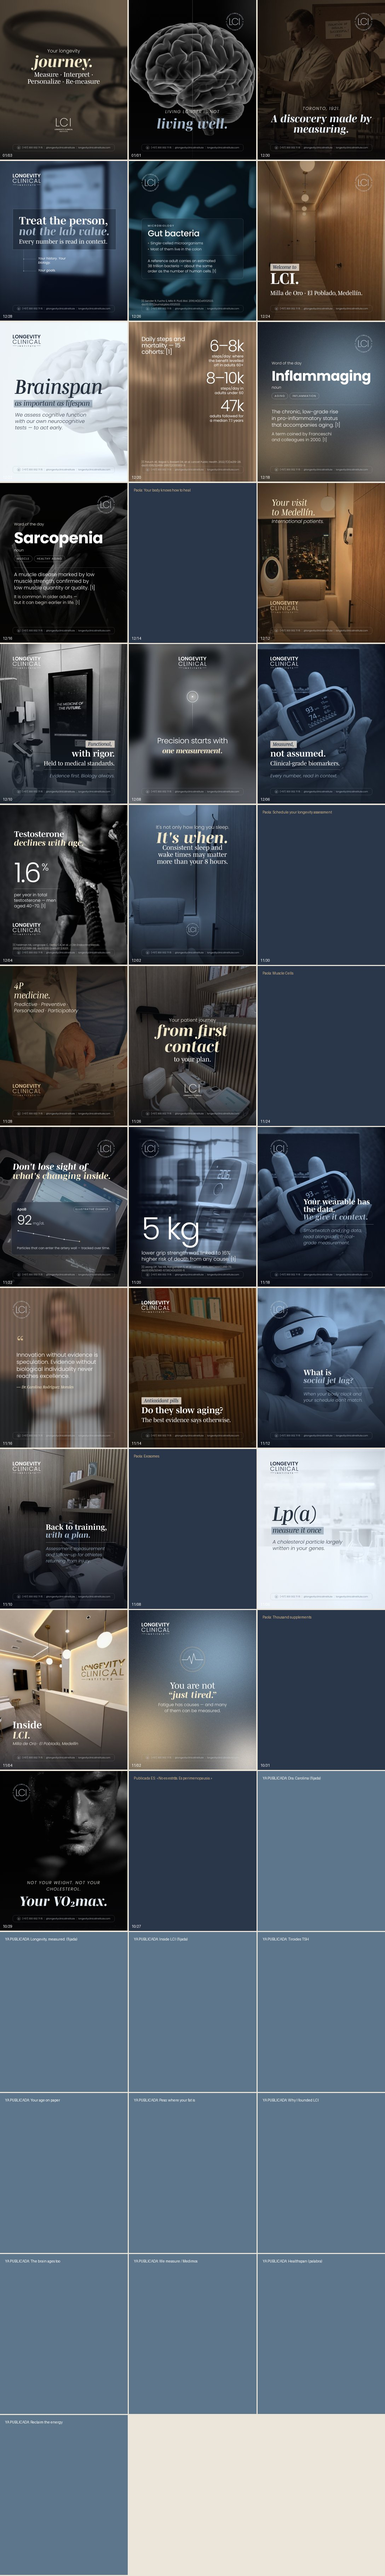
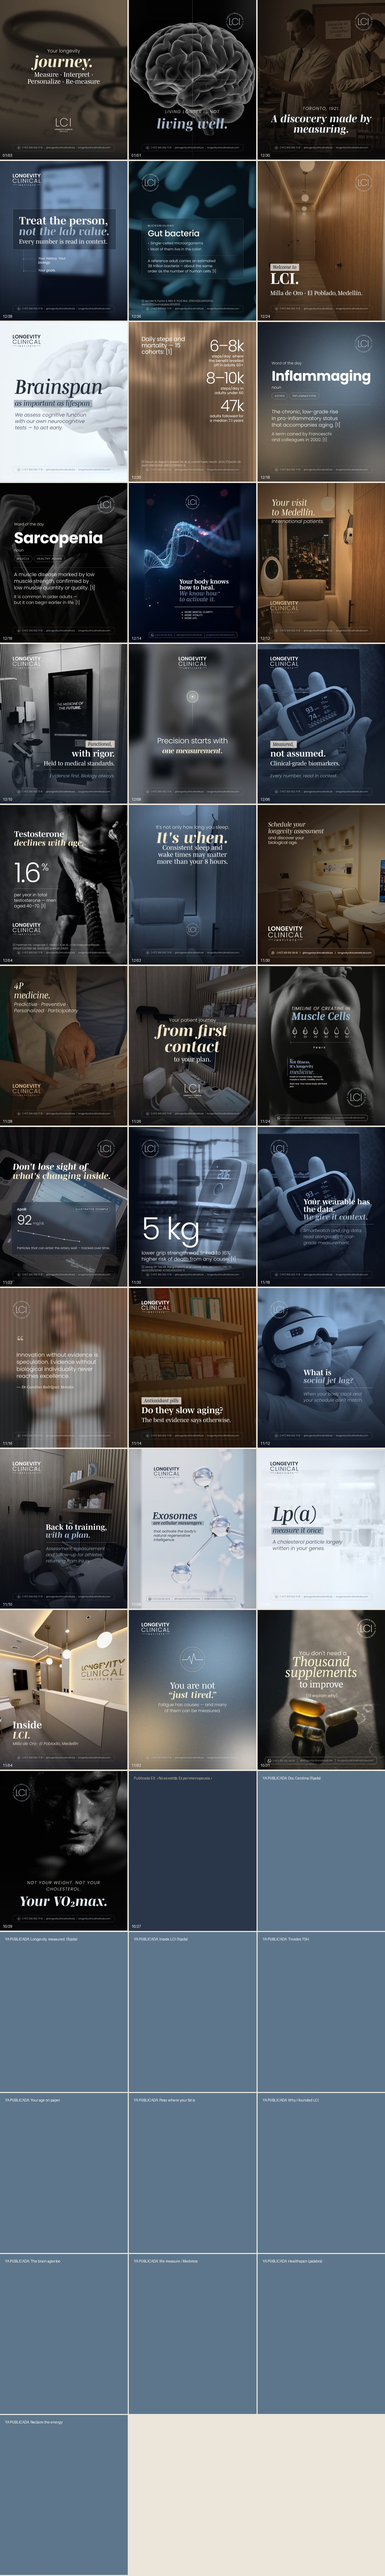
Feed LCI: incluye las 5 piezas de Paola del banco en EN
Claude-Session: https://claude.ai/code/session_01Hq27SugjwbHvNcXdDCPZTp

Changed region(s): [[0.3125, 0.5625, 1.0, 0.6875], [0.6562, 0.3125, 1.0, 0.4375], [0.3125, 0.1875, 0.6875, 0.25]]

diff --git a/feed-2026/build/package.py b/feed-2026/build/package.py
@@ -1,6 +1,6 @@
 import os,shutil,glob
 from PIL import Image,ImageDraw
-cal=[('10-27', None, 'Publicada ES: «No es estrés. Es perimenopausia.»'), ('10-29', 'E01-vo2max', 0), ('10-31', None, 'Paola: Thousand supplements'), ('11-02', 'P28-just-tired', 0), ('11-04', 'N04-inside-lci', 0), ('11-06', 'P24-lpa', 0), ('11-08', None, 'Paola: Exosomes'), ('11-10', 'NB-recuperacion', 0), ('11-12', 'P30-social-jetlag', 0), ('11-14', 'E02-antioxidants', 0), ('11-16', 'P31-quote', 0), ('11-18', 'NC-wearables', 0), ('11-20', 'P34-grip-strength', 0), ('11-22', 'P36-apob', 0), ('11-24', None, 'Paola: Muscle Cells'), ('11-26', 'N05-patient-journey', 0), ('11-28', 'P29-4p', 0), ('11-30', None, 'Paola: Schedule your longevity assessment'), ('12-02', 'E03-sleep-regularity', 0), ('12-04', 'P41-testosterone', 0), ('12-06', 'P27-measured', 0), ('12-08', 'P37-one-measurement', 0), ('12-10', 'N06-functional-rigor', 0), ('12-12', 'N07-visit-medellin', 0), ('12-14', None, 'Paola: Your body knows how to heal'), ('12-16', 'P33-word-sarcopenia', 0), ('12-18', 'P38-word-inflammaging', 0), ('12-20', 'P39-daily-steps', 0), ('12-22', 'N11-brainspan', 0), ('12-24', 'P40-inside-lci-2', 0), ('12-26', 'P35-microbiota', 0), ('12-28', 'N13-person-not-value', 0), ('12-30', 'P42-insulin-1921', 0), ('01-01', 'N09-healthspan', 0), ('01-03', 'P26-journey', 0)]
+cal=[('10-27', None, 'Publicada ES: «No es estrés. Es perimenopausia.»'), ('10-29', 'E01-vo2max', 0), ('10-31', 'PAOLA-thousand-supplements', 0), ('11-02', 'P28-just-tired', 0), ('11-04', 'N04-inside-lci', 0), ('11-06', 'P24-lpa', 0), ('11-08', 'PAOLA-exosomes', 0), ('11-10', 'NB-recuperacion', 0), ('11-12', 'P30-social-jetlag', 0), ('11-14', 'E02-antioxidants', 0), ('11-16', 'P31-quote', 0), ('11-18', 'NC-wearables', 0), ('11-20', 'P34-grip-strength', 0), ('11-22', 'P36-apob', 0), ('11-24', 'PAOLA-muscle-cells-timeline', 0), ('11-26', 'N05-patient-journey', 0), ('11-28', 'P29-4p', 0), ('11-30', 'PAOLA-schedule-assessment', 0), ('12-02', 'E03-sleep-regularity', 0), ('12-04', 'P41-testosterone', 0), ('12-06', 'P27-measured', 0), ('12-08', 'P37-one-measurement', 0), ('12-10', 'N06-functional-rigor', 0), ('12-12', 'N07-visit-medellin', 0), ('12-14', 'PAOLA-your-body-knows', 0), ('12-16', 'P33-word-sarcopenia', 0), ('12-18', 'P38-word-inflammaging', 0), ('12-20', 'P39-daily-steps', 0), ('12-22', 'N11-brainspan', 0), ('12-24', 'P40-inside-lci-2', 0), ('12-26', 'P35-microbiota', 0), ('12-28', 'N13-person-not-value', 0), ('12-30', 'P42-insulin-1921', 0), ('01-01', 'N09-healthspan', 0), ('01-03', 'P26-journey', 0)]
 live=['Dra. Carolina (fijada)', 'Longevity, measured. (fijada)', 'Inside LCI (fijada)', 'Tiroides TSH', 'Your age on paper', 'Peso: where your fat is', 'Why I founded LCI', 'The brain ages too', 'We measure / Medimos', 'Healthspan (palabra)', 'Reclaim the energy']
 PA=''
 def src(lang,slug):
@@ -14,6 +14,7 @@ for lang in ('en','es'):
     for i,(d,slug,note) in enumerate(cal,1):
         if slug:
             fs=src(lang,slug)
+            if not fs: covers.append(None); continue
             dst=f'{root}/{i:02d}_{d}_{slug}'; os.makedirs(dst)
             for j,f in enumerate(fs,1): shutil.copy(f,f'{dst}/{j:02d}.png')
             covers.append(Image.open(fs[0]).convert('RGB'))
@@ -29,7 +30,7 @@ for lang in ('en','es'):
             dr.rectangle([x,y,x+w,y+h],fill=(93,118,140)); dr.text((x+14,y+14),'YA PUBLICADA: '+live[-idx-1],fill=(255,255,255)); continue
         if c: G.paste(c.resize((w,h)),(x,y))
         else:
-            dr.rectangle([x,y,x+w,y+h],fill=(42,54,73)); dr.text((x+14,y+14),cal[idx][2],fill=(210,181,138))
+            dr.rectangle([x,y,x+w,y+h],fill=(42,54,73)); dr.text((x+14,y+14),(cal[idx][2] or 'Paola: versión ES por subir'),fill=(210,181,138))
         dr.text((x+8,y+h-18),cal[idx][0].replace('-','/'),fill=(255,255,255))
     G.save(f'FEED_LCI/grid_{lang.upper()}.jpg',quality=85)
 open('FEED_LCI/README.md','w').write("# Feed LCI 2026 — EN + ES\nOrden = calendario 13/oct → 1/ene. Carpetas NN_MM-DD_slug con láminas 01.png…\nCalendario reordenado desde 27/oct con lo que falta por publicar; las ya publicadas aparecen en gris-azul al final del grid.\nNB y NC: foto provisional del banco hasta tener las fotos Nano Banana #3 y #5.\n")

diff --git a/feed-2026/build/gallery.py b/feed-2026/build/gallery.py
@@ -20,6 +20,7 @@ for L in ('EN','ES'):
     for i,(d,slug,note) in enumerate(cal,1):
         if slug:
             fs=sorted(glob.glob(f'FEED_LCI/{L}/{i:02d}_{d}_{slug}/*.png'))
+            if not fs: items.append({'d':d.replace('-','/'),'slug':None,'note':'Pieza de Paola: versión en español por subir'}); continue
             items.append({'d':d.replace('-','/'),'slug':slug,'files':[thumb(f) for f in fs]})
         else: items.append({'d':d.replace('-','/'),'slug':None,'note':note})
     data[L]={'items':items,'live':live}
